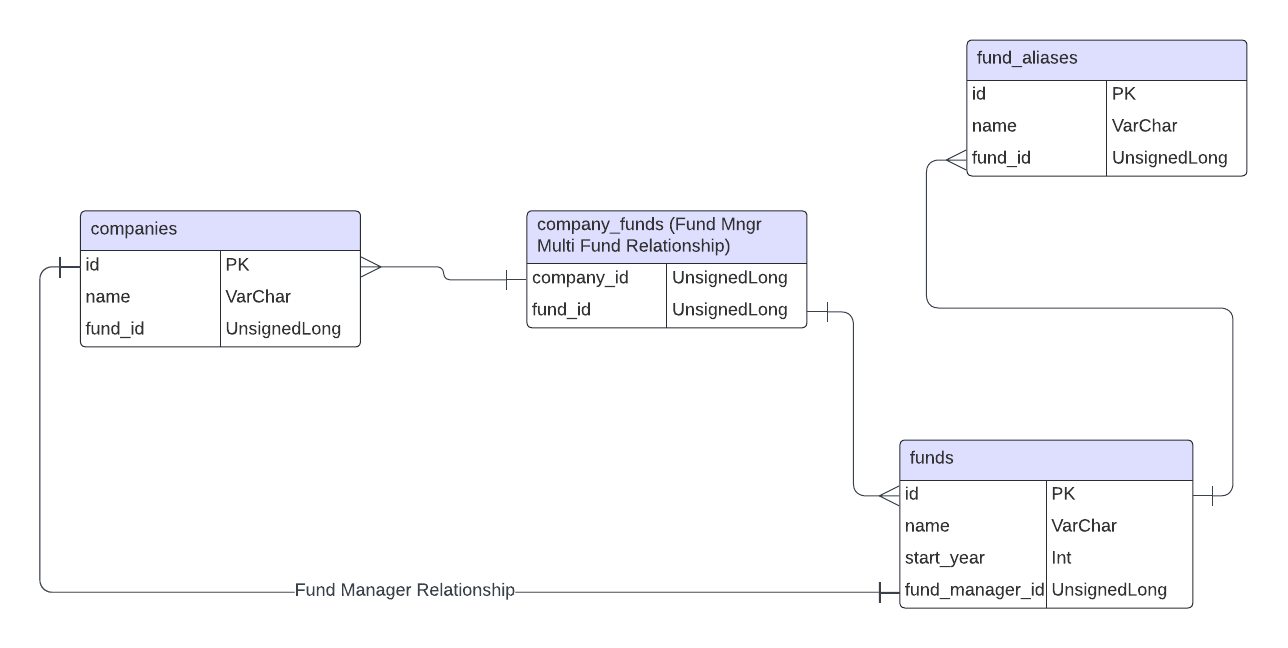
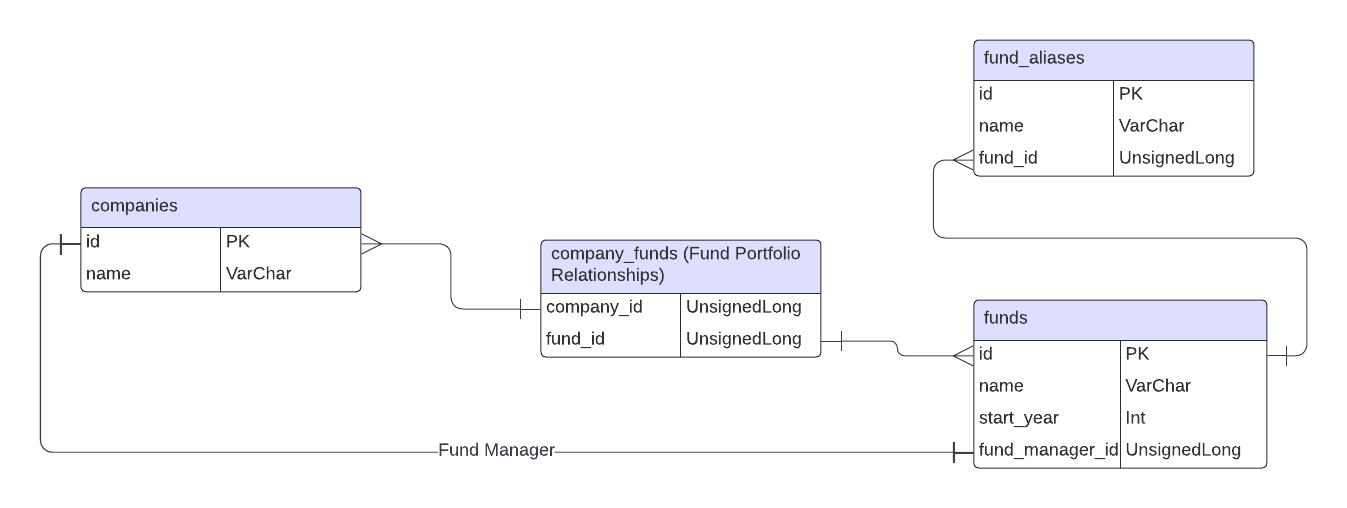
Finalization notes and testing for the evaluators

diff --git a/tests/Feature/Http/Controllers/FundControllerTest.php b/tests/Feature/Http/Controllers/FundControllerTest.php
@@ -4,7 +4,7 @@ namespace Tests\Feature\Http\Controllers;
 
 use App\Events\DuplicateFundWarningEvent;
 use App\Listeners\DuplicateFundWarningListener;
-use App\Models\{Company, DuplicateFund, Fund, FundAlias};
+use App\Models\{Company, Fund, FundAlias};
 use Illuminate\Support\Facades\Event;
 use Tests\Feature\TestCase;
 
@@ -123,6 +123,40 @@ class FundControllerTest extends TestCase
     }
 
     /**
+     * A store call with aliases
+     */
+    public function test_store_with_aliases(): void
+    {
+        $fund = Fund::factory()->make();
+        $fund->aliases = [
+            ['name' => 'something'],
+            ['name' => 'something else'],
+        ];
+
+        $response = $this->post(route('api.funds.store'), $fund->toArray());
+
+        $response->assertStatus(201);
+        $this->assertEquals(2, FundAlias::count());
+    }
+
+    /**
+     * A store call with portfolio entries
+     */
+    public function test_store_with_portfolio(): void
+    {
+        Company::factory(2)->create();
+
+        $fund = Fund::factory()->make();
+        $fund->portfolio = [2,3];
+
+        $response = $this->post(route('api.funds.store'), $fund->toArray());
+
+        $fund = Fund::with('portfolio')->findOrFail(1);
+        $response->assertStatus(201);
+        $this->assertEquals(2, $fund->portfolio()->count());
+    }
+
+    /**
      * A basic test for the duplicate_fund_warning event
      */
     public function test_store_with_matching_name_duplication_warning(): void
@@ -190,8 +224,16 @@ class FundControllerTest extends TestCase
      */
     public function test_show_endpoint(): void
     {
+        
         $fund = Fund::factory()->create();
-
+        $portfolio = [];
+        $fund->aliases()->create(['name' => 'something']);
+        $fund->aliases()->create(['name' => 'another thing']);
+        Company::factory(2)->create()->each(function($company) use ($fund, &$portfolio) {
+            $fund->portfolio()->save($company);
+            $portfolio[] = $company->name;
+        });
+        
         $response = $this->getJson(route('api.funds.show', $fund));
 
         $response->assertStatus(200);
@@ -199,6 +241,10 @@ class FundControllerTest extends TestCase
         $response->assertJsonPath('data.name', $fund->name);
         $response->assertJsonPath('data.start_year', $fund->start_year);
         $response->assertJsonPath('data.fund_manager_id', $fund->fund_manager_id);
+        $response->assertJsonPath('data.aliases.0.name', 'something');
+        $response->assertJsonPath('data.aliases.1.name', 'another thing');
+        $response->assertJsonPath('data.portfolio.0.name', $portfolio[0]);
+        $response->assertJsonPath('data.portfolio.1.name', $portfolio[1]);
     }
 
     /**
@@ -221,7 +267,7 @@ class FundControllerTest extends TestCase
     }
 
     /**
-     * A basic update endpoint call
+     * An update with aliases
      */
     public function test_update_endpoint_with_aliases(): void
     {
@@ -241,9 +287,50 @@ class FundControllerTest extends TestCase
     }
 
     /**
-     * A basic update endpoint call
+     * An update with an alias reduction
+     */
+    public function test_update_endpoint_with_alias_reduction(): void
+    {
+        $fund = Fund::factory()->create();
+        FundAlias::factory(2)->create([
+            'fund_id' => $fund->id
+        ]);
+
+        $fund = Fund::with('aliases')->findOrFail($fund->id);
+        $fundPayload = $fund->toArray();
+        unset($fundPayload['aliases'][0]);
+
+        $response = $this->put(route('api.funds.update', $fund), $fundPayload);
+
+        $response->assertStatus(200);
+        $this->assertEquals(1, FundAlias::count());
+    }
+
+    /**
+     * An update call with portfolio entries
      */
     public function test_update_endpoint_with_portfolio_entries(): void
+    {
+        Company::factory(3)->create();
+        $fund = Fund::factory()->create();
+        $fund->portfolio()->sync([2,3,4]);
+
+        $fund->load('portfolio');
+
+        $fundPayload = $fund->toArray();
+        $fundPayload['portfolio'] = [2, 4];
+
+        $response = $this->put(route('api.funds.update', $fund), $fundPayload);
+
+        $fund->load('portfolio');
+        $response->assertStatus(200);
+        $this->assertEquals(2, $fund->portfolio()->count());
+    }
+
+    /**
+     * An update call with portfolio entry reduction
+     */
+    public function test_update_endpoint_with_portfolio_entry_reduction(): void
     {
         Company::factory(3)->create();
         $fund = Fund::factory()->create();

diff --git a/app/Http/Controllers/FundController.php b/app/Http/Controllers/FundController.php
@@ -26,8 +26,16 @@ class FundController extends Controller
         $fundService = app()->make(\App\Services\FundService::class);
         $fund = Fund::create($request->toArray());
 
-        $fundService->handleDuplicate($fund);
+        foreach($request->aliases ?? [] as $alias) {
+            $fund->aliases()->create($alias);
+        }
 
+        $fund->portfolio()->sync($request->portfolio ?? []);
+
+        $fundService->handleDuplicate($fund);
+        
+        $fund->load('aliases', 'portfolio');
+        
         return response()->json([
             'status' => 'success',
             'data' => $fund->toArray(),
@@ -41,7 +49,7 @@ class FundController extends Controller
     {
         return response()->json([
             'status' => 'success',
-            'data' => $fund->toArray(),
+            'data' => $fund->load('aliases', 'portfolio')->toArray(),
         ]);
     }
 

diff --git a/database/seeders/DatabaseSeeder.php b/database/seeders/DatabaseSeeder.php
@@ -2,8 +2,6 @@
 
 namespace Database\Seeders;
 
-use App\Models\User;
-// use Illuminate\Database\Console\Seeds\WithoutModelEvents;
 use Illuminate\Database\Seeder;
 
 class DatabaseSeeder extends Seeder
@@ -13,15 +11,7 @@ class DatabaseSeeder extends Seeder
      */
     public function run(): void
     {
-        // User::factory(10)->create();
-
-        User::factory()->create([
-            'name' => 'Test User',
-            'email' => 'test@example.com',
-        ]);
-
         $this->call(CompanySeeder::class);
         $this->call(FundSeeder::class);
-        $this->call(FundAliasSeeder::class);
     }
 }

diff --git a/database/seeders/CompanySeeder.php b/database/seeders/CompanySeeder.php
@@ -3,7 +3,6 @@
 namespace Database\Seeders;
 
 use App\Models\Company;
-use Illuminate\Database\Console\Seeds\WithoutModelEvents;
 use Illuminate\Database\Seeder;
 
 class CompanySeeder extends Seeder
@@ -13,6 +12,6 @@ class CompanySeeder extends Seeder
      */
     public function run(): void
     {
-        Company::factory()->create();
+        Company::factory(200)->create();
     }
 }

diff --git a/database/seeders/FundSeeder.php b/database/seeders/FundSeeder.php
@@ -3,7 +3,6 @@
 namespace Database\Seeders;
 
 use App\Models\Fund;
-use Illuminate\Database\Console\Seeds\WithoutModelEvents;
 use Illuminate\Database\Seeder;
 
 class FundSeeder extends Seeder
@@ -13,6 +12,6 @@ class FundSeeder extends Seeder
      */
     public function run(): void
     {
-        Fund::factory(10)->create();
+        Fund::factory(50)->create();
     }
 }

diff --git a/tests/Feature/Http/Controllers/DuplicateFundControllerTest.php b/tests/Feature/Http/Controllers/DuplicateFundControllerTest.php
@@ -37,6 +37,5 @@ class DuplicateFundControllerTest extends TestCase
         $response->assertJsonPath('data.0.name', $fund->name);
         $response->assertJsonPath('data.0.year', $fund->year);
         $response->assertJsonPath('data.0.fund_manager_id', $fund->fund_manager_id);
-
     }
 }

diff --git a/app/Models/User.php b/app/Models/User.php
@@ -2,7 +2,6 @@
 
 namespace App\Models;
 
-// use Illuminate\Contracts\Auth\MustVerifyEmail;
 use Illuminate\Database\Eloquent\Factories\HasFactory;
 use Illuminate\Foundation\Auth\User as Authenticatable;
 use Illuminate\Notifications\Notifiable;

diff --git a/README.md b/README.md
@@ -1,5 +1,36 @@
 # Canoe Code Challenge
 
+## Prelude
+I'll make this section short, but thank you very much for taking the time to
+review this challenge, and the opportunity to work with you guys. I look
+forward to what is to come.
+
+## TL;DR
+Skip to Evaluator Notes at the bottom for usage instructions
+
+## Assumptions
+- I try to avoid saving binaries in repositories, but felt my ERD could be
+  an exception this time around.  You can find it in the `docs` folder
+- Since 'Fund Managers' were called out as companies in the exercise spec, and
+  they took the same 'shape' as a company (with only a name), I combined them
+  as one 'Company' model. A Fund Manager was then appointed as such by creating
+  a relationship from the 'Fund' model's 'fund_manager_id' property, which is
+  required. I can see some downsides to this, so this would obviously be called
+  out in a design meeting at some point.
+- I've always been really liberal with ids and dates fields on a table.  If
+  data sets become big, and they are deamed unnecessary, they can be removed
+  later.
+- I left authentication and user management completely out of this exercise.
+  I felt really gross doing this, but all endpoints are completely open.
+
+## Improvements I could still make
+- I think storing aliases in a json blob as an array would have made the api
+  and logic WAY more elegant
+- As the data set grows, I could probably trim some unnecessary columns
+  (mentioned above)
+- Tests could probably be written more cleanly/precisely, but I'm already
+  over time
+
 ## Dev (Linux Setup)
 Note:
 The following steps assume that PHP, Composer, and Docker are installed and
@@ -13,12 +44,33 @@ alias sail='sh $([ -f sail ] && echo sail || echo vendor/bin/sail)'
 ### Initial Setup
 - Install PHP dependencies via Composer:
 ```bash
-composer install
+composer install --ignore-platform-reqs
 ```
 
-- Bring up the sail container:
+- Copy .env.example to .env
+```bash
+cp .env.example .env
+```
+
+- Bring up development environment:
 ```bash
 sail up -d
+```
+
+- Generate App key
+```bash
+sail artisan key:generate
+```
+
+- Run database migrations
+```bash
+sail artisan migrate
+```
+Note: This was developed using sqlite.  Please ensure ./database/database.sqlite exists
+
+- Seed the database (Company endpoints were not created, so you need company data)
+```bash
+sail artisan db:seed
 ```
 
 ### Run Tests (Sail container must be running from above step):
@@ -26,6 +78,13 @@ sail up -d
 sail artisan test
 ```
 
-### Notes
+## Evaluator Notes
 - The ERD can be located in the ./docs/erd.png file and should be replaced with
   a link to the living document.  This document was generated by LucidCharts.
+- Endpoints can be retrieved by running `sail artisan route:list`
+- Endpoint payloads can be gleaned from looking at the
+  `tests/Feature/Http/Controllers/FundControllerTest.php` file.  Funds'
+  alias and portfolio payloads can notably be found in
+  `test_update_endpoint_with_aliases`, and
+  `test_update_endpoint_with_portfolio_entries` tests.
+- If you've made it this far, you're awesome! It's so much! Thank you again!
